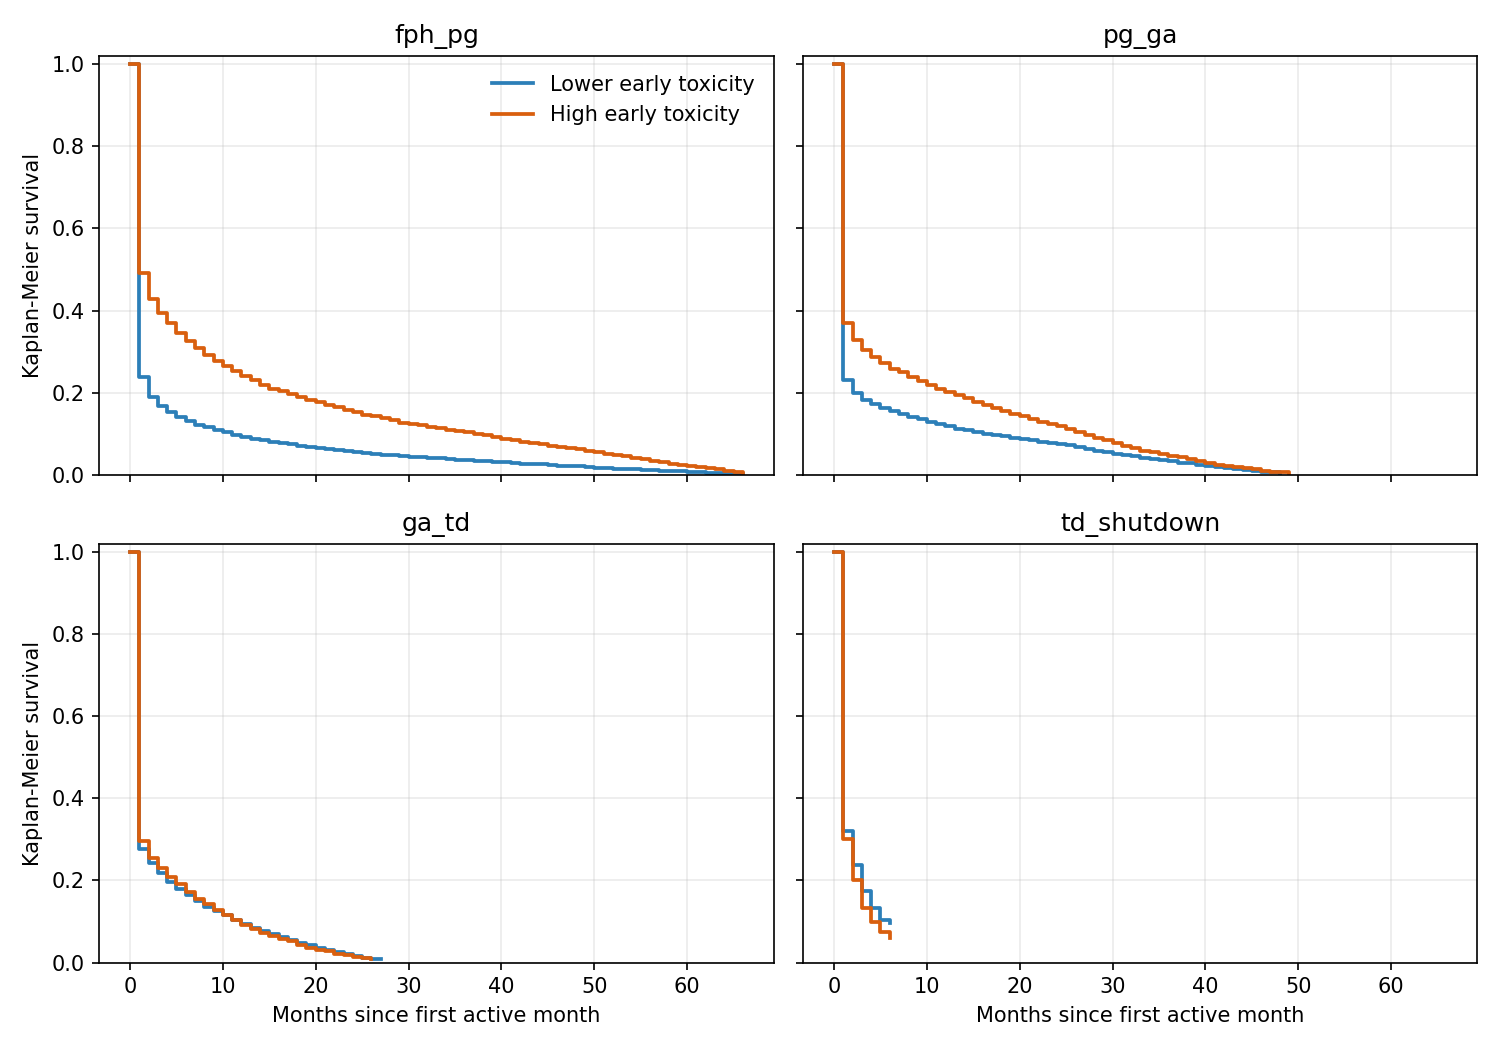
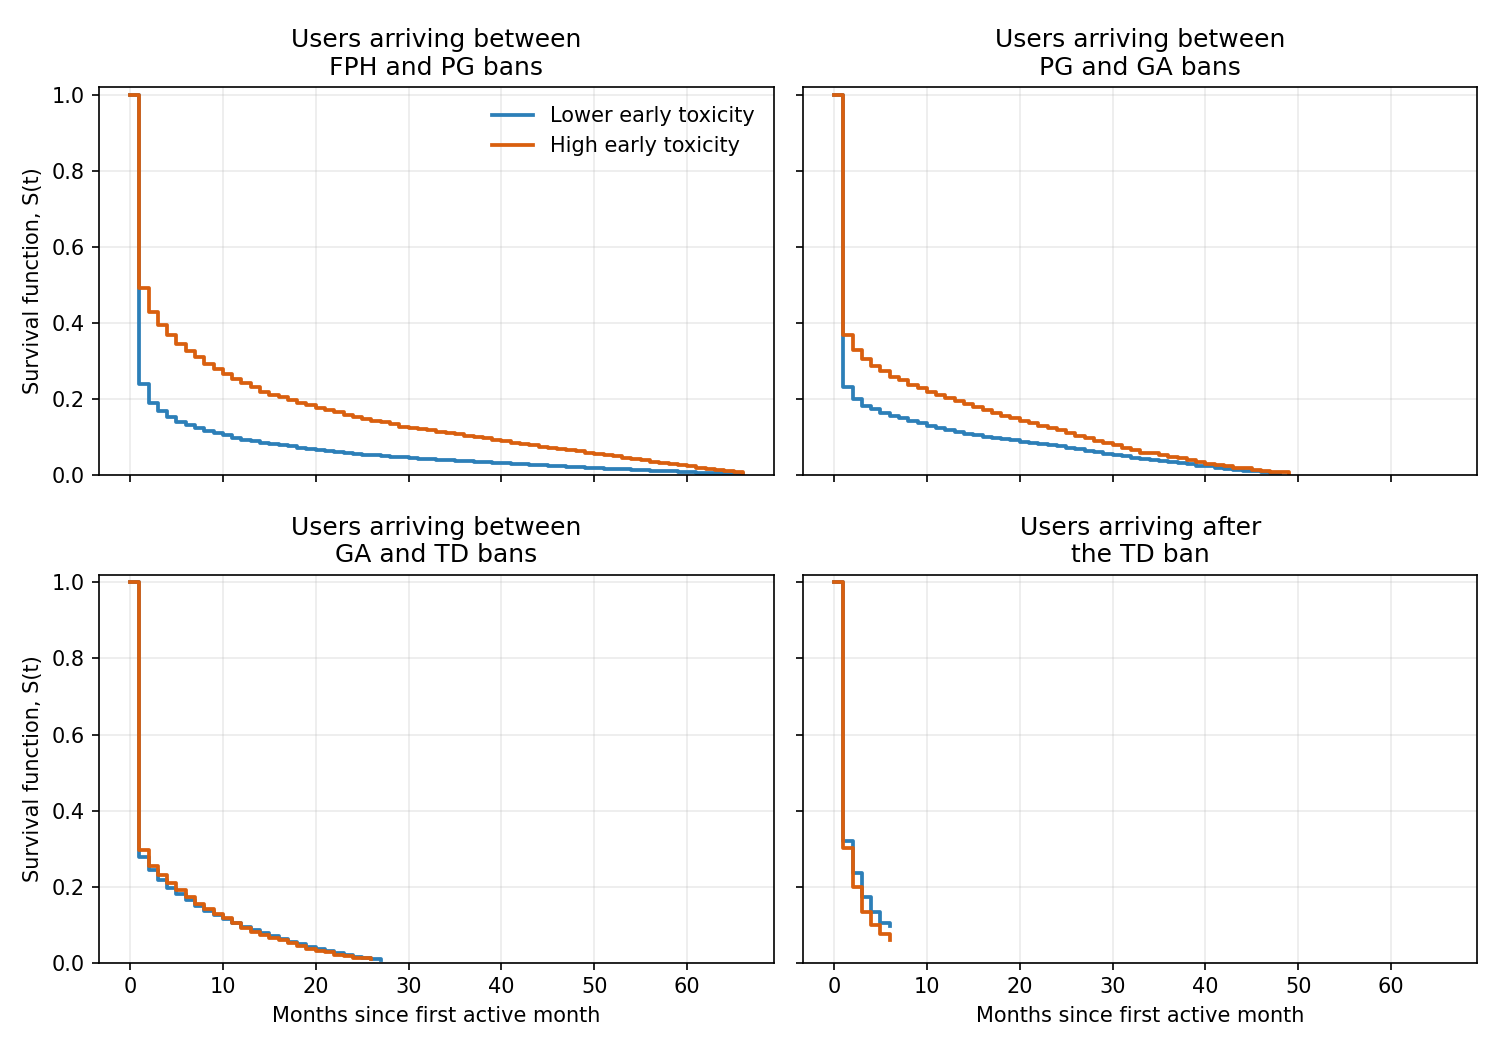
Update fixed-cohort survival figure labels

diff --git a/scripts/fixed_cohort_retention_analysis.py b/scripts/fixed_cohort_retention_analysis.py
@@ -31,6 +31,12 @@ NORMAL_COMMUNITIES = ["funny", "gaming", "gifs", "pics", "technology", "videos"]
 POST_BAN_COHORTS = ["fph_pg", "pg_ga", "ga_td", "td_shutdown"]
 COHORT_ORDER = ["pre_fph", *POST_BAN_COHORTS]
 COHORT_RANK = {cohort: idx for idx, cohort in enumerate(COHORT_ORDER)}
+COHORT_PANEL_LABELS = {
+    "fph_pg": "Users arriving between\nFPH and PG bans",
+    "pg_ga": "Users arriving between\nPG and GA bans",
+    "ga_td": "Users arriving between\nGA and TD bans",
+    "td_shutdown": "Users arriving after\nthe TD ban",
+}
 SHUTDOWN_MONTH = pd.Period("2020-12", freq="M")
 
 PRIMARY_EARLY_MONTHS = 3
@@ -582,12 +588,12 @@ def plot_global_km(curves: pd.DataFrame, output_path: Path) -> None:
                 color=colors[group],
                 linewidth=1.8,
             )
-        ax.set_title(cohort)
+        ax.set_title(COHORT_PANEL_LABELS.get(cohort, cohort))
         ax.grid(alpha=0.25)
         ax.set_ylim(0, 1.02)
 
     for ax in axes[:, 0]:
-        ax.set_ylabel("Kaplan-Meier survival")
+        ax.set_ylabel("Survival function, S(t)")
     for ax in axes[-1, :]:
         ax.set_xlabel("Months since first active month")
     axes[0, 0].legend(frameon=False)